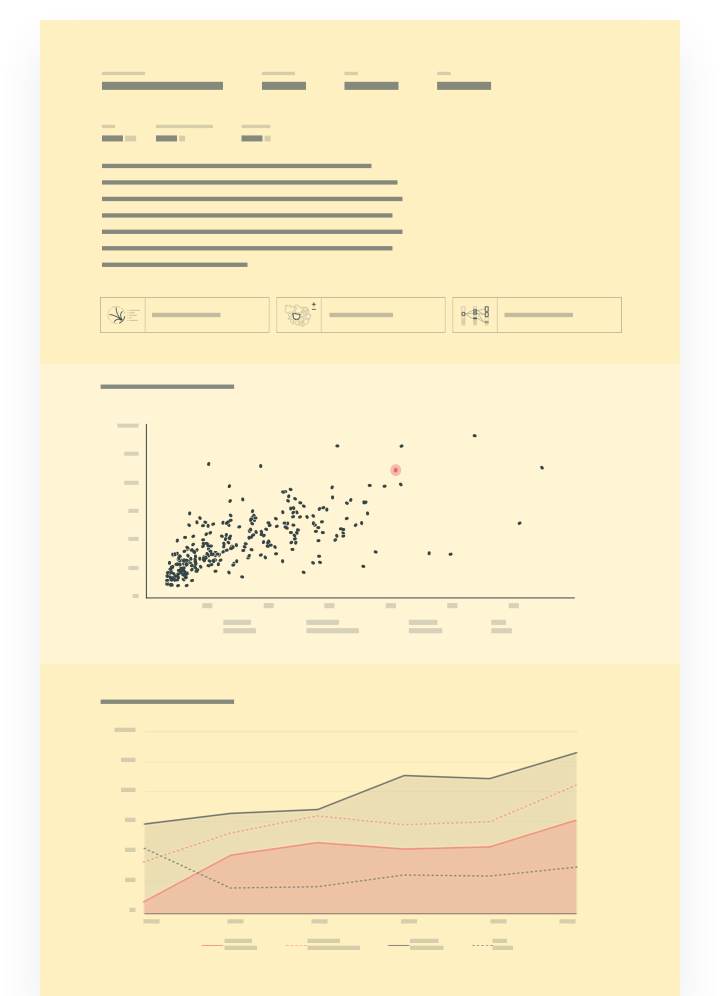
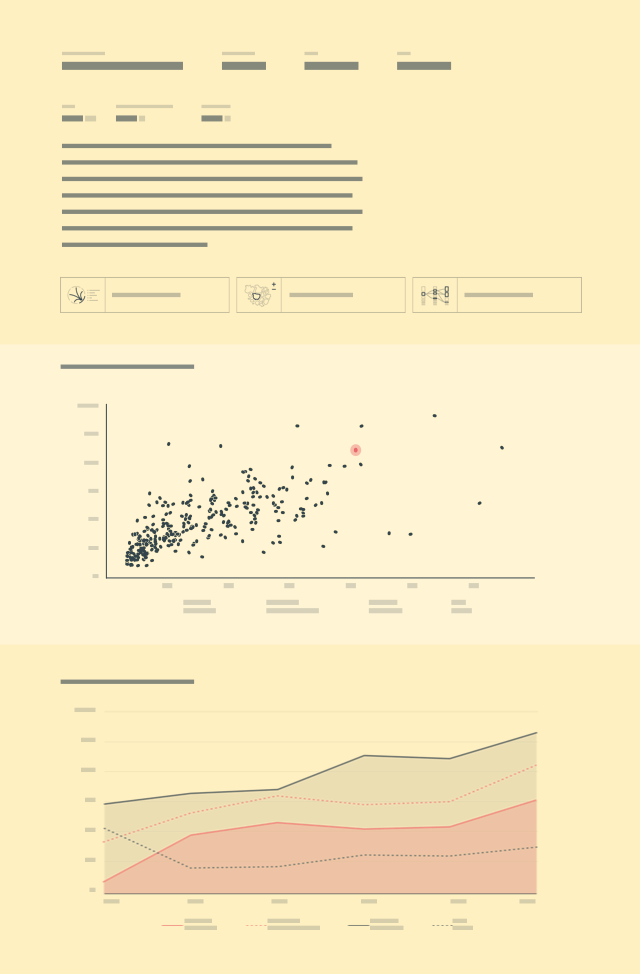
more responsive changes for profile search page

diff --git a/frontend/styles/components/profile-root/profile-search.scss b/frontend/styles/components/profile-root/profile-search.scss
@@ -16,7 +16,7 @@ $spinner-height-large: 40px;
     align-items: center;
     justify-content: space-between;
     width: 100%;
-    height: $search-height-small;
+    height: $search-height-large;
     padding: 2px 8px 0 0;
     background-color: $white;
     box-shadow: $search-box-shadow;
@@ -39,23 +39,13 @@ $spinner-height-large: 40px;
         }
       }
     }
-
-    @media only screen and (min-width: $search-breakpoint-medium) {
-      padding: 3px 15px 0 0;
-    }
-
-    @media only screen and (min-width: $search-breakpoint-large) {
-      padding: 2px 20px 0 0;
-      height: $search-height-large;
-    }
   }
 
   .profile-search-input {
     flex: 1;
-    height: $search-height-small - 10px;
-    padding: 0 5px 0 8px;
+    padding: 0 5px 0 15px;
     font-family: $font-family-1;
-    font-size: 12px;
+    font-size: 18px;
     letter-spacing: -0.8px;
     text-align: left;
     color: $charcoal-grey;
@@ -66,50 +56,31 @@ $spinner-height-large: 40px;
       transition: color 150ms ease-out;
     }
 
-    @media only screen and (min-width: $search-breakpoint-medium) {
-      font-size: 16px;
-      padding: 0 5px 0 15px;
-    }
-
     @media only screen and (min-width: $search-breakpoint-large) {
-      font-size: 18px;
-      height: $search-height-large - 5px;
       padding: 0 5px 0 20px;
     }
   }
 
   .profile-search-spinner {
     position: relative;
-    height: $spinner-height-small;
-    width: $spinner-height-small;
+    height: $spinner-height-large;
+    width: $spinner-height-large;
     background-color: transparent;
 
     &::after {
       content: '';
       position: absolute;
-      top: $spinner-height-small - 25px;
-      left: $spinner-height-small - 25px;
+      top: $spinner-height-large - 30px;
+      left: $spinner-height-large - 30px;
+      width: $spinner-height-large - 20px;
+      height: $spinner-height-large - 20px;
       border: 2px solid $charcoal-grey;
       border-radius: 99px;
-      width: $spinner-height-small - 20px;
-      height: $spinner-height-small - 20px;
       clip: rect(0, 20px, 13px, 0);
 
       animation: rotate 1s;
       animation-timing-function: linear;
       animation-iteration-count: infinite;
-    }
-
-    @media only screen and (min-width: $search-breakpoint-medium) {
-      height: $spinner-height-large;
-      width: $spinner-height-large;
-
-      &::after {
-        top: $spinner-height-large - 30px;
-        left: $spinner-height-large - 30px;
-        width: $spinner-height-large - 20px;
-        height: $spinner-height-large - 20px;
-      }
     }
 
     @keyframes rotate {

diff --git a/frontend/scripts/react-components/profile-root/profile-root.component.jsx b/frontend/scripts/react-components/profile-root/profile-root.component.jsx
@@ -10,7 +10,7 @@ const ProfileRoot = props => {
         <div className="c-profile-root">
           <div className="row column">
             <div className="profile-root-search-container row align-center">
-              <div className="column small-12 medium-6">
+              <div className="column small-12 medium-9 large-6">
                 <div className="profile-root-heading-container">
                   <div className="profile-root-heading-wrapper">
                     <h2 className="subtitle -gray">Country & Commodity</h2>
@@ -25,7 +25,7 @@ const ProfileRoot = props => {
               </div>
             </div>
             <div className="row align-center">
-              <div className="column small-12 medium-8">
+              <div className="column small-12 medium-10 large-8">
                 <img
                   className="profile-root-mock hide-for-small"
                   src="/images/backgrounds/profile-mock.jpg"

diff --git a/frontend/scripts/react-components/shared/responsive.hoc.jsx b/frontend/scripts/react-components/shared/responsive.hoc.jsx
@@ -19,7 +19,7 @@ export function Responsive({ debounceRate = DEFAULT_DEBOUNCE_RATE } = {}) {
 
       componentDidMount() {
         window.addEventListener('resize', this.onPageResize);
-        this.setWidth();
+        this.setSize();
       }
 
       componentWillUnmount() {
@@ -27,10 +27,10 @@ export function Responsive({ debounceRate = DEFAULT_DEBOUNCE_RATE } = {}) {
       }
 
       onPageResize() {
-        this.setWidth();
+        this.setSize();
       }
 
-      setWidth() {
+      setSize() {
         const { width, height } = this.responsiveContainer.getBoundingClientRect();
 
         if (this.state.width !== width || this.state.height !== height) {

diff --git a/frontend/scripts/react-components/profile-root/profile-search.component.jsx b/frontend/scripts/react-components/profile-root/profile-search.component.jsx
@@ -49,9 +49,15 @@ class ProfileSearch extends PureComponent {
           role="textbox"
         >
           <input
+            {...getInputProps({ placeholder: 'Search' })}
+            type="search"
+            className="profile-search-input show-for-small"
+            disabled={loading}
+          />
+          <input
             {...getInputProps({ placeholder: 'Search a company or production place' })}
             type="search"
-            className="profile-search-input"
+            className="profile-search-input hide-for-small"
             disabled={loading}
           />
           {loading ? (
